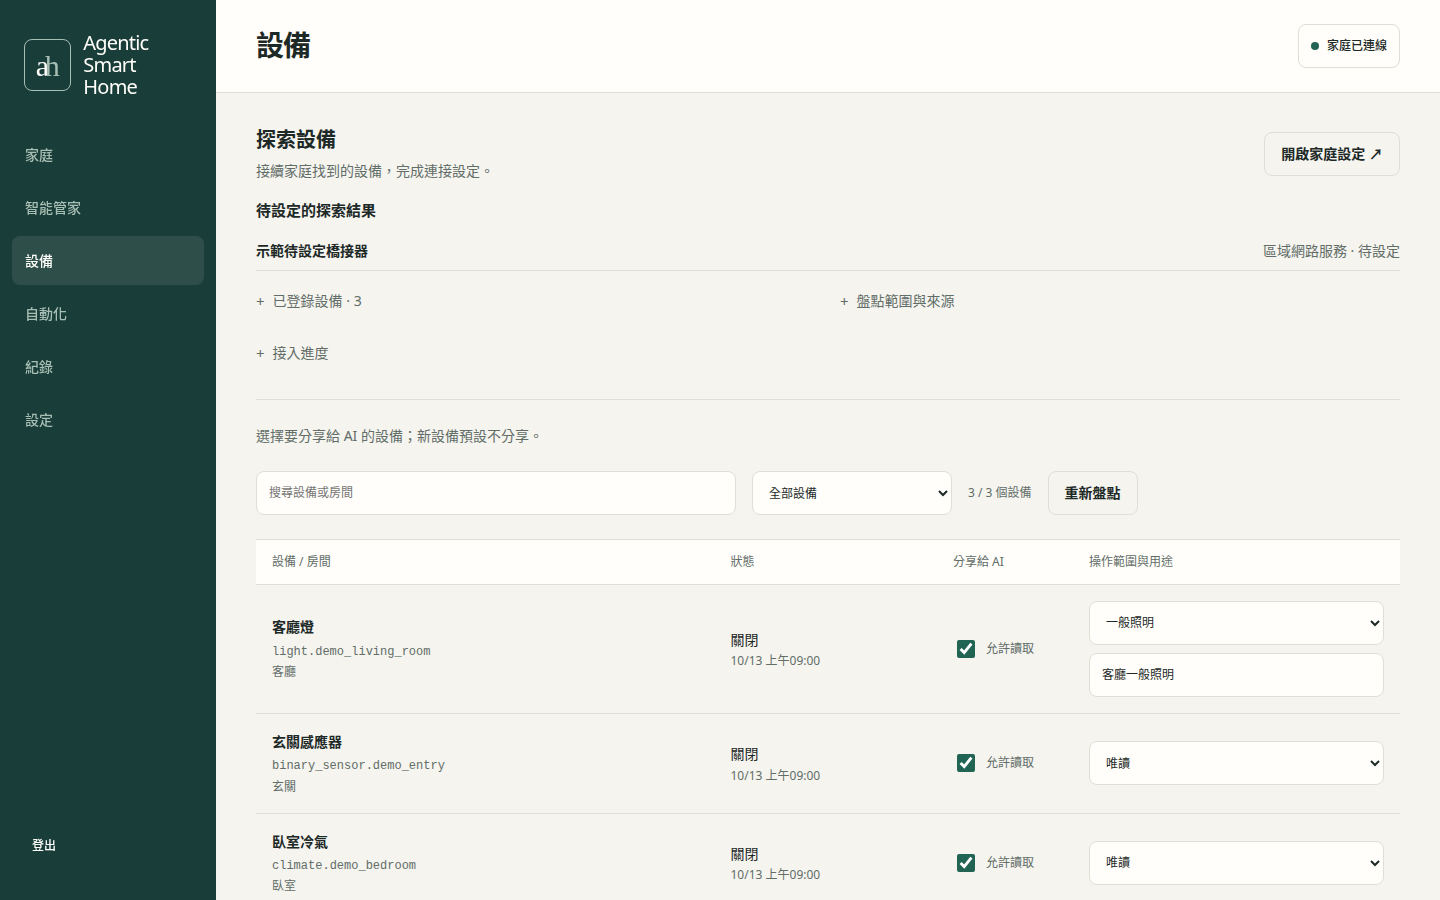
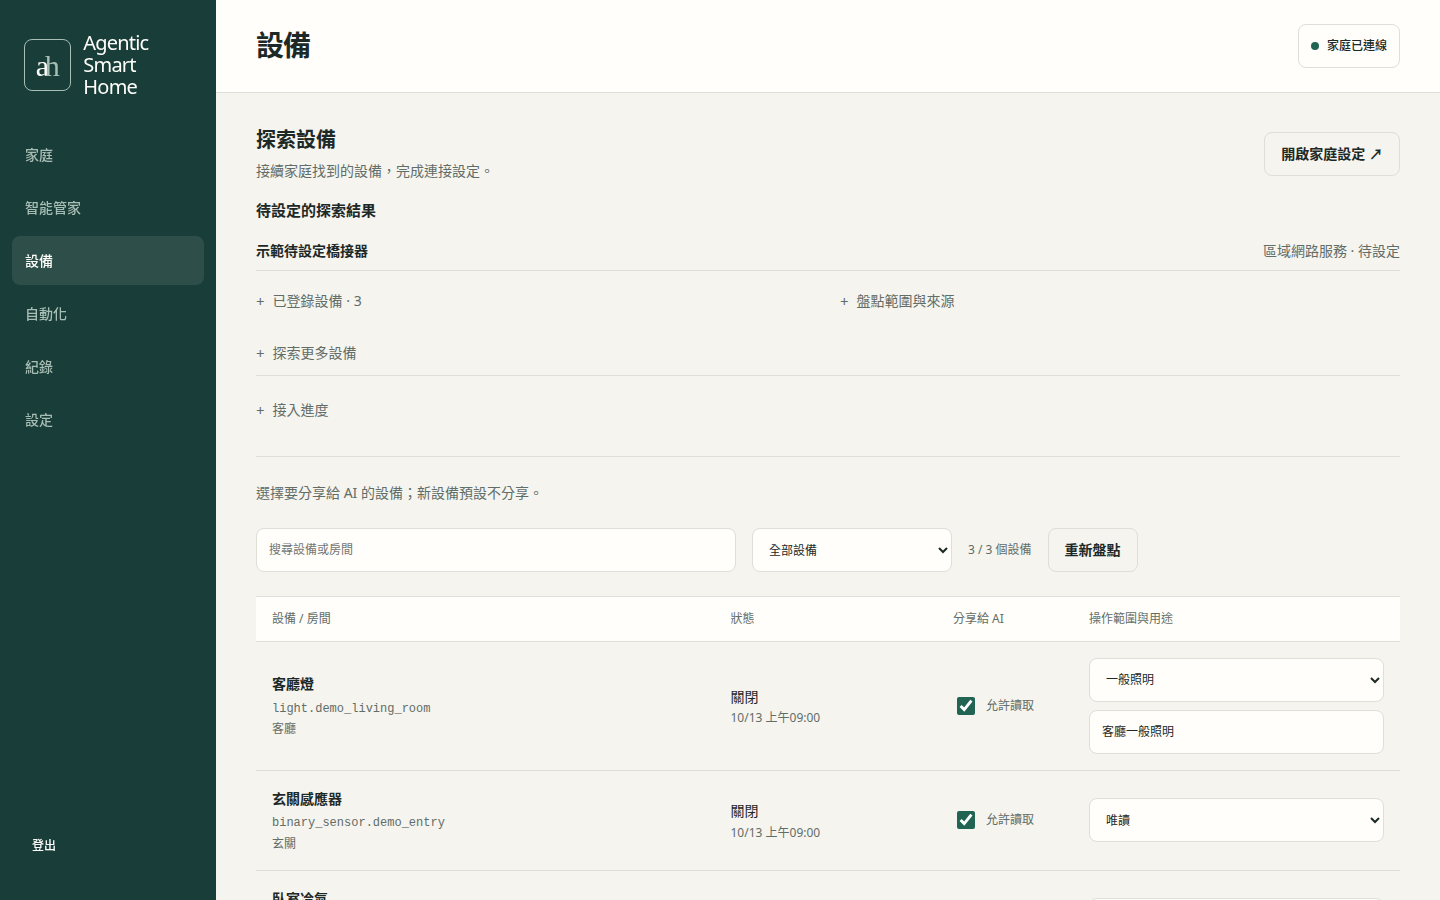
Record inventory verification and refresh public discovery demo

diff --git a/tests/test_network_inventory_ui.py b/tests/test_network_inventory_ui.py
@@ -630,7 +630,7 @@ def test_inventory_host_forbidden_clears_prior_private_fields_without_logging_ou
     expect(panel.get_by_label('探索的主機網路')).to_be_disabled()
     expect(panel.get_by_label('探索的主機網路').locator('option')).to_have_count(1)
     panel.get_by_role('button', name='匯入清單', exact=True).click()
-    details = panel.locator('details').filter(has=panel.get_by_label('清單內容')).first
+    details = panel.locator('.network-inventory-import details').first
     if not details.evaluate('node=>node.open'):
         details.locator(':scope>summary').click()
     expect(panel.get_by_label('清單內容')).to_have_value('')
